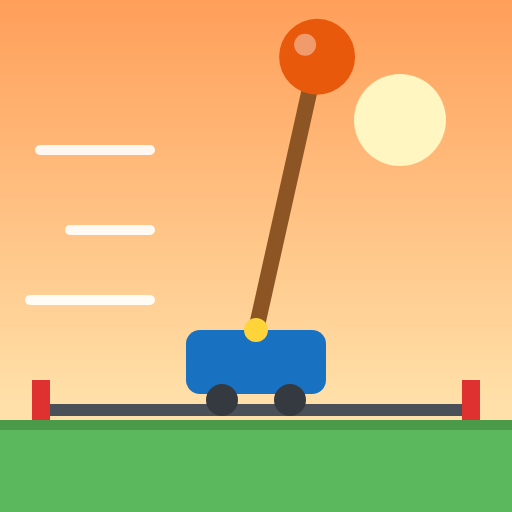
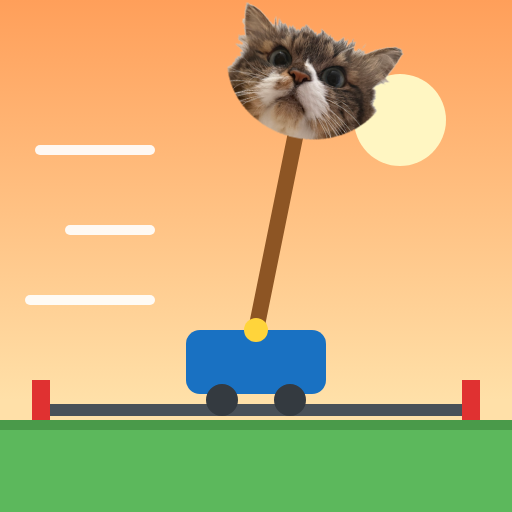
振り子倒立: put the cat's head on the pole, zoom out after a fall
Claude-Session: https://claude.ai/code/session_018edS9HTqps9Cn2Gv3AwteX

Changed region(s): [[0.4375, 0.0, 0.7812, 0.5625]]

diff --git a/games/pendulum-balance/index.html b/games/pendulum-balance/index.html
@@ -138,6 +138,7 @@ function whoosh(dur, vol) {
 
 // ---- world (meters) ----
 // a pole on a cart; angle from straight up, positive = leaning toward +x
+const catImg = new Image(); catImg.src = 'cat.png';
 const cv = $('cv'), ctx = cv.getContext('2d');
 const G = 6.5, DT = 1 / 240;                  // a bit gentler than real gravity so a person can react
 const POLE = 1.5, PIVOT = 0.42, RAIL = 1.6;   // pole length, pivot height, half the rail length
@@ -152,7 +153,7 @@ function reset(st) {
   const tilt = (0.02 + Math.random() * 0.03) * (Math.random() < 0.5 ? -1 : 1);
   s = { x: 0, v: 0, a: tilt, w: 0 };
   prev = { ...s };
-  target = 0; offset = null; playT = 0; finalT = 0; wait = 0;
+  target = 0; offset = null; playT = 0; zoom = 1; finalT = 0; wait = 0;
   gust = null; nextGust = FIRST_GUST; warnT = 0; streaks.length = 0;
   state = st;
 }
@@ -202,7 +203,7 @@ function step(dt) {
 }
 
 // ---- input ----
-let scale = 100, originX = 0, groundY = 0;
+let scale = 100, baseScale = 100, zoom = 1, originX = 0, groundY = 0;
 const toWorldX = e => (e.clientX - cv.getBoundingClientRect().left - originX) / scale;
 // the finger moves the cart relative to where it first touched, so the cart never jumps to the finger
 function aimAt(e) {
@@ -264,7 +265,7 @@ function resize() {
   cv.width = r.width * dpr; cv.height = r.height * dpr; ctx.setTransform(dpr, 0, 0, dpr, 0, 0);
   const W = r.width, H = r.height;
   groundY = H - Math.max(110, H * 0.24);
-  scale = Math.min(W / (2 * RAIL + 1.1), (groundY - 70) / (PIVOT + POLE + 0.5));
+  scale = baseScale = Math.min(W / (2 * RAIL + 1.1), (groundY - 70) / (PIVOT + POLE + 0.5));
   originX = W / 2;
 }
 addEventListener('resize', resize);
@@ -287,6 +288,11 @@ let lastBg = '';
 function draw(fdt, k) {
   const W = cv.clientWidth, H = cv.clientHeight;
   const x = prev.x + (s.x - prev.x) * k, a = prev.a + (s.a - prev.a) * k;
+  // after a fall, zoom out until the cat's head is on screen
+  const fell = state === 'fall' || state === 'done';
+  const zt = fell ? Math.min(1, (W / 2 - 8) / ((Math.abs(x + Math.sin(a) * POLE) + 1.1) * baseScale)) : 1;
+  zoom += (zt - zoom) * Math.min(1, fdt * 5);
+  scale = baseScale * zoom;
   const X = v => originX + v * scale, Y = v => groundY - v * scale;
   const tm = state === 'title' ? 0 : (state === 'play' ? playT : finalT);
   const [top, bot] = skyAt(tm);
@@ -348,12 +354,15 @@ function draw(fdt, k) {
   ctx.beginPath(); ctx.roundRect(cx - cw / 2, cy, cw, ch, Math.min(10, ch / 3)); ctx.fill();
   ctx.fillStyle = '#343a40';
   for (const sgn of [-1, 1]) { ctx.beginPath(); ctx.arc(cx + sgn * cw * 0.3, railY - 2, Math.max(5, scale * 0.07), 0, 7); ctx.fill(); }
-  // pole and weight
+  // pole and the cat's head on top (tilts with the pole)
   const tx = cx + Math.sin(a) * POLE * scale, ty = cy - Math.cos(a) * POLE * scale;
   ctx.strokeStyle = '#8d5524'; ctx.lineWidth = Math.max(5, scale * 0.06);
   ctx.beginPath(); ctx.moveTo(cx, cy); ctx.lineTo(tx, ty); ctx.stroke();
-  ctx.fillStyle = '#e8590c'; ctx.beginPath(); ctx.arc(tx, ty, Math.max(10, scale * 0.13), 0, 7); ctx.fill();
-  ctx.fillStyle = 'rgba(255,255,255,.4)'; ctx.beginPath(); ctx.arc(tx - scale * 0.04, ty - scale * 0.04, Math.max(3, scale * 0.04), 0, 7); ctx.fill();
+  { const hr = Math.max(26, scale * 0.42);
+    ctx.save(); ctx.translate(tx, ty); ctx.rotate(a);
+    if (catImg.complete && catImg.naturalWidth) ctx.drawImage(catImg, -hr, -hr * 1.7, hr * 2, hr * 2); // chin sits on the pole tip
+    else { ctx.fillStyle = '#e8590c'; ctx.beginPath(); ctx.arc(0, 0, hr * 0.6, 0, 7); ctx.fill(); }
+    ctx.restore(); }
   ctx.fillStyle = '#ffd43b'; ctx.beginPath(); ctx.arc(cx, cy, Math.max(4, scale * 0.05), 0, 7); ctx.fill();
   // waiting for the first move: arrows on both sides of the cart
   if (state === 'ready') {
